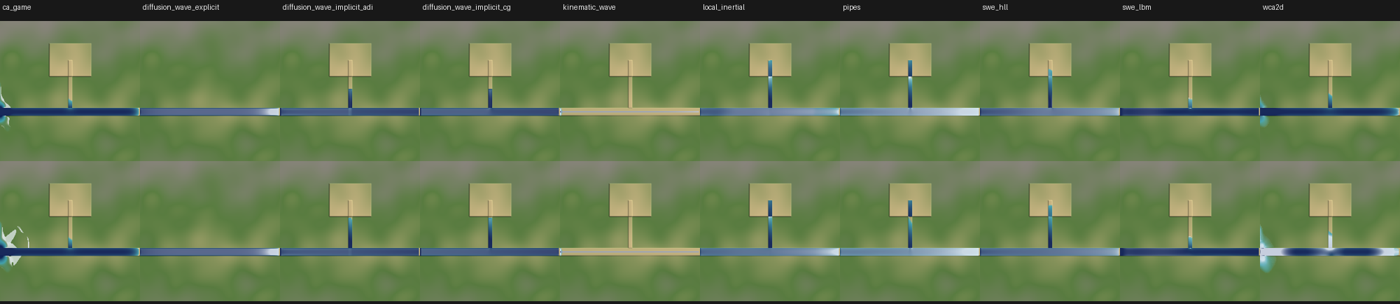
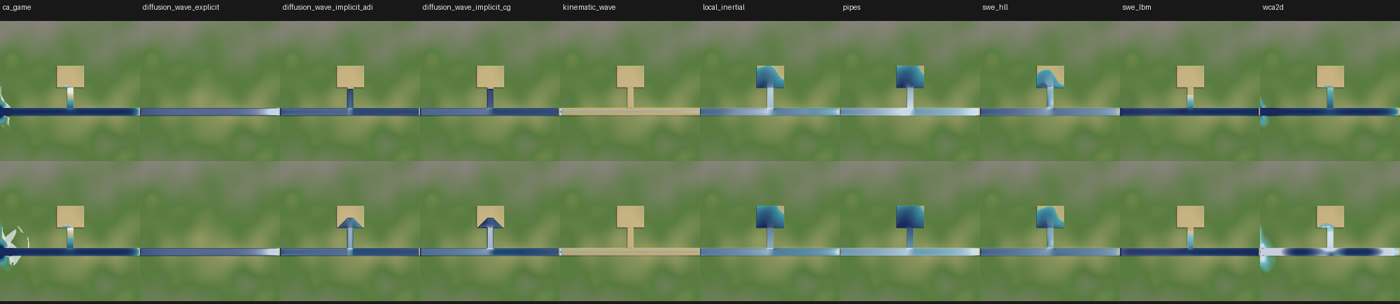
results: pit_dig rows re-run on the fixed scene (60 runs, 64-500)

diff --git a/results/results.md b/results/results.md
@@ -17,30 +17,30 @@ Grid 400^2, median of 30 steps, single thread; numba kernels are plain loops of 
 | solver | ms/step numpy | dt s | numpy ms/tick | C# ms/tick guess | fits 0.5 ms/tick | worst vol err | lake drift m | settled | blow-ups | errors | capped |
 |---|---|---|---|---|---|---|---|---|---|---|---|
 | ca_game | 3.74 | 0.5 | 0.125 | 0.021-0.056 | yes | 1.8e-14 | 4.4e-16 | 1/9 | 0 | 0 | 0 |
-| diffusion_wave_explicit | 7.28 | 4.4e-05 | 2.53e+03 | 4.2e+02-1.1e+03 | no | 1.4e-15 | 4.4e-16 | 0/9 | 0 | 0 | 9 |
-| diffusion_wave_implicit_adi | 905 | 5 | 3.02 | 0.51-1.4 | no | 7.3e-16 | 5.9e-11 | 1/9 | 0 | 0 | 0 |
+| diffusion_wave_explicit | 6.85 | 4.4e-05 | 2.53e+03 | 4.2e+02-1.1e+03 | no | 1.4e-15 | 4.4e-16 | 0/9 | 0 | 0 | 9 |
+| diffusion_wave_implicit_adi | 905 | 5 | 3.02 | 0.51-1.4 | no | 6.9e-16 | 5.9e-11 | 1/9 | 0 | 0 | 0 |
 | diffusion_wave_implicit_cg | 3.32e+03 | 5 | 11.1 | 1.9-5 | no | 7.3e-16 | 2.2e-16 | 1/9 | 0 | 0 | 7 |
-| kinematic_wave | 7.92 | 0.0712 | 1.75 | 0.29-0.79 | maybe | 2.8e-15 | 1.0e+04 | 1/9 | 5 | 0 | 0 |
-| local_inertial | 9.25 | 0.193 | 0.815 | 0.23-0.61 | maybe | 1.1e-15 | 8.9e-16 | 1/9 | 0 | 0 | 0 |
-| pipes | 11 | 0.152 | 1.21 | 0.046-0.12 | yes | 4.7e-14 | 3.6e-15 | 1/9 | 0 | 0 | 0 |
-| swe_hll | 24.6 | 0.145 | 2.89 | 0.49-1.3 | maybe | 1.7e-15 | 8.9e-16 | 1/9 | 0 | 0 | 0 |
+| kinematic_wave | 7.5 | 0.0712 | 1.75 | 0.29-0.79 | maybe | 2.6e-15 | 1.0e+04 | 1/9 | 5 | 0 | 0 |
+| local_inertial | 8.56 | 0.193 | 0.797 | 0.22-0.6 | maybe | 1.1e-15 | 8.9e-16 | 1/9 | 0 | 0 | 0 |
+| pipes | 9.27 | 0.152 | 1.02 | 0.039-0.1 | yes | 4.7e-14 | 3.6e-15 | 1/9 | 0 | 0 | 0 |
+| swe_hll | 23.5 | 0.145 | 2.7 | 0.45-1.2 | maybe | 1.7e-15 | 8.9e-16 | 1/9 | 0 | 0 | 0 |
 | swe_lbm | 80.4 | 0.0965 | 10.8 | 1.8-4.8 | no | 2.6e-14 | 4.4e-16 | 1/9 | 0 | 0 | 8 |
-| wca2d | 15.1 | 0.251 | 0.862 | 0.14-0.39 | yes | 4.8e-16 | 2.2e-16 | 1/9 | 0 | 0 | 0 |
+| wca2d | 13.6 | 0.251 | 0.862 | 0.14-0.39 | yes | 4.8e-16 | 2.2e-16 | 1/9 | 0 | 0 | 0 |
 
 ### Water solvers at 500 x 500 (median over water scenes)
 
 | solver | ms/step numpy | dt s | numpy ms/tick | C# ms/tick guess | fits 0.5 ms/tick | worst vol err | lake drift m | settled | blow-ups | errors | capped |
 |---|---|---|---|---|---|---|---|---|---|---|---|
 | ca_game | 13.5 | 0.5 | 0.45 | 0.076-0.2 | yes | 1.8e-14 | 4.4e-16 | 1/9 | 0 | 0 | 0 |
-| diffusion_wave_explicit | 18.8 | 5.48e-05 | 5.29e+03 | 8.9e+02-2.4e+03 | no | 3.1e-16 | 4.4e-16 | 0/9 | 0 | 0 | 9 |
-| diffusion_wave_implicit_adi | 2.48e+03 | 5 | 8.28 | 1.4-3.7 | no | 4.1e-16 | 3.0e-11 | 1/9 | 0 | 0 | 5 |
+| diffusion_wave_explicit | 17.4 | 5.48e-05 | 5.29e+03 | 8.9e+02-2.4e+03 | no | 2.9e-16 | 4.4e-16 | 0/9 | 0 | 0 | 9 |
+| diffusion_wave_implicit_adi | 2.48e+03 | 5 | 8.27 | 1.4-3.7 | no | 4.1e-16 | 3.0e-11 | 1/9 | 0 | 0 | 5 |
 | diffusion_wave_implicit_cg | 9.64e+03 | 5 | 32.1 | 5.4-14 | no | 2.6e-16 | 4.4e-16 | 0/9 | 0 | 0 | 9 |
-| kinematic_wave | 19.5 | 0.0845 | 3.75 | 0.63-1.7 | no | 1.0e-15 | 1.0e+04 | 1/9 | 5 | 0 | 1 |
-| local_inertial | 22.2 | 0.207 | 2.01 | 0.56-1.5 | no | 6.3e-16 | 8.9e-16 | 1/9 | 0 | 0 | 0 |
-| pipes | 30.9 | 0.152 | 3.39 | 0.13-0.34 | yes | 4.6e-14 | 2.7e-15 | 1/9 | 0 | 0 | 0 |
-| swe_hll | 58 | 0.155 | 7.16 | 1.2-3.2 | no | 6.3e-16 | 8.9e-16 | 1/9 | 0 | 0 | 7 |
+| kinematic_wave | 17.9 | 0.0845 | 3.29 | 0.55-1.5 | no | 9.9e-16 | 1.0e+04 | 1/9 | 5 | 0 | 0 |
+| local_inertial | 21.9 | 0.207 | 1.66 | 0.47-1.2 | maybe | 6.3e-16 | 8.9e-16 | 1/9 | 0 | 0 | 0 |
+| pipes | 26.8 | 0.152 | 2.94 | 0.11-0.3 | yes | 4.6e-14 | 2.7e-15 | 1/9 | 0 | 0 | 0 |
+| swe_hll | 58 | 0.155 | 7.16 | 1.2-3.2 | no | 6.3e-16 | 8.9e-16 | 1/9 | 0 | 0 | 6 |
 | swe_lbm | 178 | 0.12 | 24.7 | 4.2-11 | no | 6.1e-15 | 4.4e-16 | 0/9 | 0 | 0 | 9 |
-| wca2d | 40.2 | 0.254 | 2.72 | 0.46-1.2 | maybe | 4.7e-16 | 4.4e-16 | 1/9 | 0 | 0 | 2 |
+| wca2d | 40.2 | 0.254 | 2.72 | 0.46-1.2 | maybe | 4.7e-16 | 4.4e-16 | 1/9 | 0 | 0 | 1 |
 
 ### numpy ms/step by size (median over scenes; timing phase, sequential, one thread)
 
@@ -50,16 +50,16 @@ Grid 400^2, median of 30 steps, single thread; numba kernels are plain loops of 
 | stable_fluids | flow | 7.22 | 25.6 | 87.4 | 245 | 246 | 481 |
 | heat_adi | scalar | 0.253 | 0.709 | 1.35 | 2.34 | 2.56 | 3.87 |
 | heat_explicit | scalar | 0.0224 | 0.0775 | 0.241 | 0.521 | 0.685 | 1.23 |
-| ca_game | water | 0.125 | 0.403 | 1.84 | 3.74 | 8.79 | 13.5 |
-| diffusion_wave_explicit | water | 0.235 | 0.851 | 3.46 | 7.28 | 14.4 | 18.8 |
-| diffusion_wave_implicit_adi | water | 1.62 | 9.01 | 415 | 905 | 1.57e+03 | 2.48e+03 |
+| ca_game | water | 0.125 | 0.394 | 1.84 | 3.74 | 8.79 | 13.5 |
+| diffusion_wave_explicit | water | 0.235 | 0.851 | 3.38 | 6.85 | 14.4 | 17.4 |
+| diffusion_wave_implicit_adi | water | 1.62 | 9.01 | 415 | 905 | 1.45e+03 | 2.48e+03 |
 | diffusion_wave_implicit_cg | water | 30.4 | 141 | 869 | 3.32e+03 | 6.93e+03 | 9.64e+03 |
-| kinematic_wave | water | 0.18 | 0.721 | 3.04 | 7.92 | 14.5 | 19.5 |
-| local_inertial | water | 0.293 | 1.04 | 4.6 | 9.25 | 19.2 | 22.2 |
-| pipes | water | 0.317 | 1.15 | 4.93 | 11 | 21.1 | 30.9 |
-| swe_hll | water | 0.516 | 2.25 | 9.82 | 24.6 | 41.7 | 58 |
-| swe_lbm | water | 1.94 | 6.85 | 33.5 | 80.4 | 124 | 178 |
-| wca2d | water | 0.354 | 1.61 | 6.88 | 15.1 | 26.9 | 40.2 |
+| kinematic_wave | water | 0.179 | 0.644 | 3.01 | 7.5 | 14.5 | 17.9 |
+| local_inertial | water | 0.305 | 1.04 | 4.6 | 8.56 | 19.2 | 21.9 |
+| pipes | water | 0.317 | 1.15 | 4.93 | 9.27 | 21.1 | 26.8 |
+| swe_hll | water | 0.543 | 2.25 | 10.2 | 23.5 | 41.7 | 58 |
+| swe_lbm | water | 1.94 | 6.79 | 33.1 | 80.4 | 124 | 178 |
+| wca2d | water | 0.354 | 1.61 | 7.15 | 13.6 | 26.9 | 40.2 |
 | linear_wave | wave | 0.0667 | 0.234 | 0.762 | 3.95 | 3.47 | 4.58 |
 
 ### Largest fixed dt that survives 20 s of the 128 dam break (water) / gaussian / ripples
@@ -158,16 +158,16 @@ Reference swe_hll (matches Stoker's analytic dam break to 0.1%, tests/test_water
 | ocean_edge | swe_hll | 10.3 | 0.0777 | 1544 | 120 |  | 6.5e-03 | 3.0e-17 | 0.0e+00 | no | no |  |
 | ocean_edge | swe_lbm | 36.6 | 0.0388 | 1360 | 16.9 |  | 3.3e-01 | 4.8e-17 | 0.0e+00 | no | yes |  |
 | ocean_edge | wca2d | 6.58 | 0.251 | 823 | 120 |  | 3.0e+00 | 2.7e-17 | 0.0e+00 | no | no |  |
-| pit_dig | ca_game | 2.01 | 0.5 | 300 | 150 |  | 1.7e-02 | 6.6e-16 | 0.0e+00 | no | no |  |
-| pit_dig | diffusion_wave_explicit | 3.46 | 0.000223 | 9759 | 1.58 |  | 5.8e-02 | 1.0e-16 | 0.0e+00 | no | yes |  |
-| pit_dig | diffusion_wave_implicit_adi | 507 | 5 | 30 | 150 |  | 3.0e-02 | 2.7e-15 | 0.0e+00 | no | no |  |
-| pit_dig | diffusion_wave_implicit_cg | 820 | 5 | 30 | 150 |  | 4.9e-02 | 1.5e-16 | 0.0e+00 | no | no |  |
-| pit_dig | kinematic_wave | 3.04 | 0.115 | 1152 | 150 |  | 1.1e-03 | 3.8e-15 | 0.0e+00 | no | no |  |
-| pit_dig | local_inertial | 4.09 | 0.25 | 608 | 150 |  | 1.1e-01 | 5.5e-16 | 0.0e+00 | no | no |  |
-| pit_dig | pipes | 4.66 | 0.152 | 988 | 150 |  | 5.2e-02 | 6.2e-15 | 0.0e+00 | no | no |  |
-| pit_dig | swe_hll | 9.82 | 0.162 | 1044 | 150 |  | 3.5e-03 | 2.2e-16 | 0.0e+00 | no | no |  |
-| pit_dig | swe_lbm | 35.8 | 0.151 | 1488 | 39.2 |  | 1.3e-01 | 7.3e-17 | 0.0e+00 | no | yes |  |
-| pit_dig | wca2d | 6.88 | 0.184 | 1222 | 150 |  | 8.0e+00 | 2.6e-16 | 0.0e+00 | no | no |  |
+| pit_dig | ca_game | 1.94 | 0.5 | 300 | 150 |  | 1.7e-02 | 6.6e-16 | 0.0e+00 | no | no |  |
+| pit_dig | diffusion_wave_explicit | 3.07 | 0.000223 | 17907 | 2.9 |  | 3.0e-02 | 4.2e-16 | 0.0e+00 | no | yes |  |
+| pit_dig | diffusion_wave_implicit_adi | 453 | 5 | 30 | 150 |  | 1.5e-01 | 9.2e-16 | 0.0e+00 | no | no |  |
+| pit_dig | diffusion_wave_implicit_cg | 782 | 5 | 30 | 150 |  | 2.2e-01 | 4.4e-16 | 0.0e+00 | no | no |  |
+| pit_dig | kinematic_wave | 2.91 | 0.115 | 1152 | 150 |  | 1.1e-03 | 4.4e-15 | 0.0e+00 | no | no |  |
+| pit_dig | local_inertial | 4.57 | 0.25 | 570 | 150 |  | 5.7e-02 | 1.8e-16 | 0.0e+00 | no | no |  |
+| pit_dig | pipes | 4.57 | 0.152 | 988 | 150 |  | 2.5e-02 | 6.8e-15 | 0.0e+00 | no | no |  |
+| pit_dig | swe_hll | 12.1 | 0.162 | 1016 | 150 |  | 5.8e-03 | 1.1e-16 | 0.0e+00 | no | no |  |
+| pit_dig | swe_lbm | 33.1 | 0.151 | 2815 | 42.3 |  | 7.7e-02 | 1.3e-16 | 0.0e+00 | no | yes |  |
+| pit_dig | wca2d | 7.82 | 0.184 | 1222 | 150 |  | 8.0e+00 | 2.9e-16 | 0.0e+00 | no | no |  |
 | rain_groundwater | ca_game | 2.38 | 0.5 | 240 | 120 |  | 1.3e-02 | 7.6e-16 | 0.0e+00 | no | no |  |
 | rain_groundwater | diffusion_wave_explicit | 4.54 | 0.00217 | 9865 | 9.89 |  | 6.7e-02 | 3.2e-15 | 0.0e+00 | no | yes |  |
 | rain_groundwater | diffusion_wave_implicit_adi | 460 | 5 | 24 | 120 |  | 5.2e-02 | 5.9e-16 | 0.0e+00 | no | no |  |
